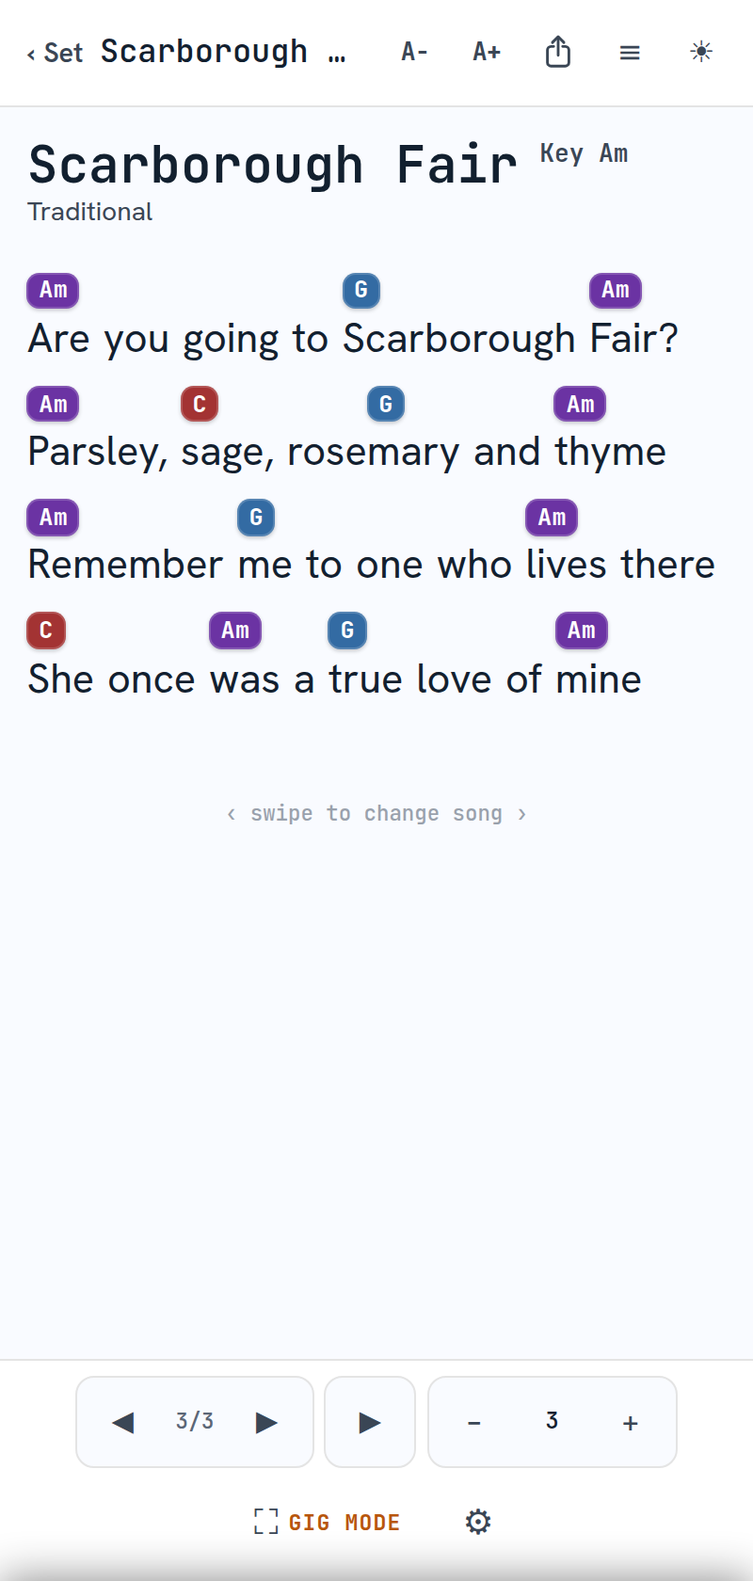
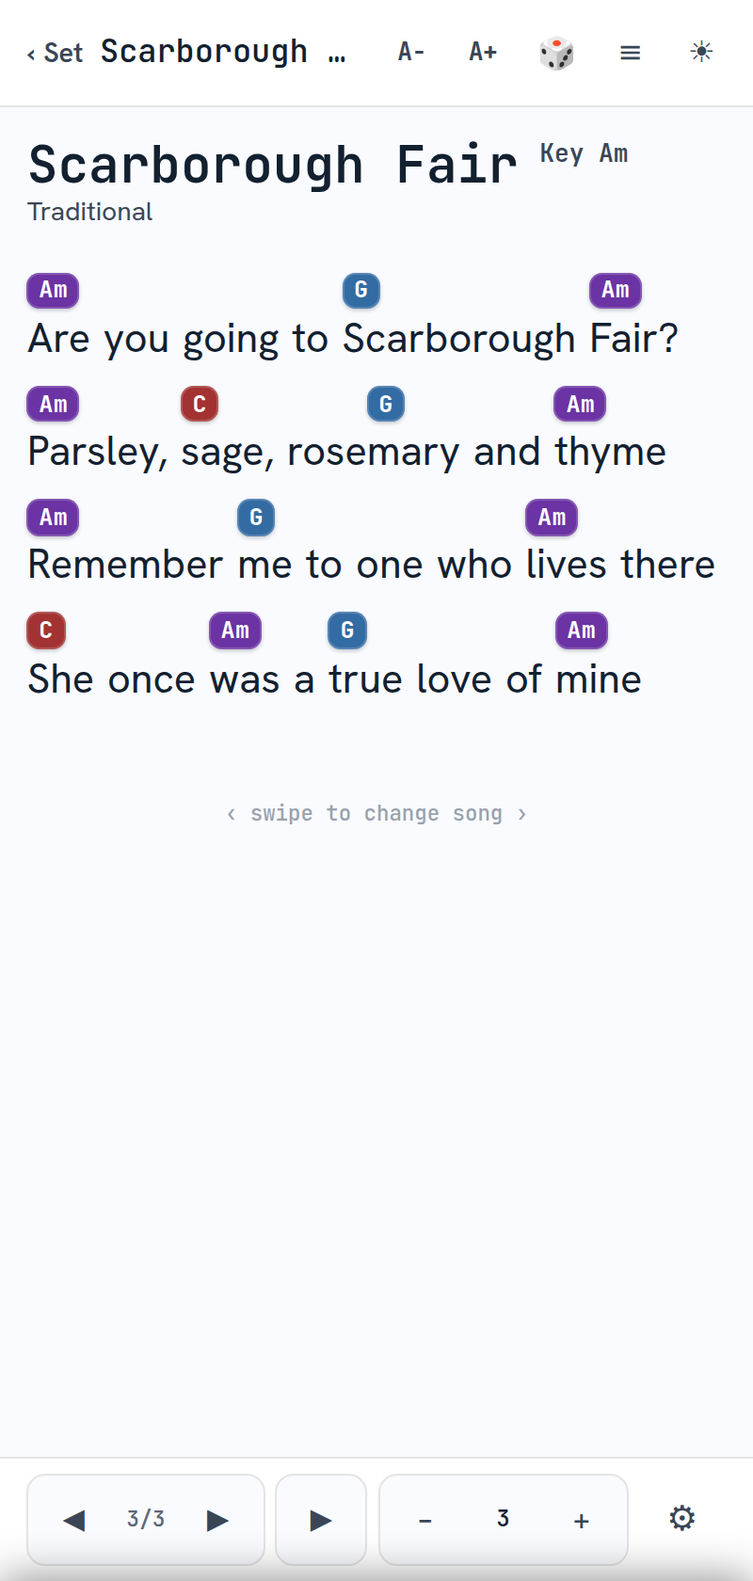
v2026.08.21.001 — simplify: no gig mode, wide awake, highlighted banter, smart header, chord chart
The owner's simplification notes, shipped as one release because they
interlock (gig mode's removal frees the dock and the wake-lock story; the
header rework moves the same buttons the earlier share/dice work touched).

GIG MODE REMOVED. The ⛶ fullscreen mode, its dock button, setGig/toggleGig
and both fullscreen listeners are gone; stage mode stays untouched. The
dock is simpler for it.

WIDE AWAKE. The screen-wake lock is now held app-wide: acquired at boot,
re-acquired whenever the app returns to the foreground, never released
between screens. A stand-mounted device must not sleep on any screen —
this also absorbs the wake-holding job gig mode used to do.

BANTER HIGHLIGHTED. .svbanter goes from small accent italic to a tinted
highlighter bar under the title — accent text on a 14% accent tint with a
3px accent border, weight 600. The stale light-theme orange override from
the amber era is retired; the coral accent clears AA as text in both
themes.

SMART HEADER. The 🎲 moved from the Songs list header into the app header
on every screen (hidden in stage mode, where a random song is a misfire
hazard — the stage toggle updates it too, since it doesn't route through
show()). Share is home-only; A−/A+ stay song-view-only. Header width
re-measured at 320/360/390 — no overflow.

CHORD CHART. A ⚙-sheet toggle (#chartBtn, persisted as state.chordChart —
the nashville-flag pattern) shows a wrapping strip of fingering diagrams
[…]

diff --git a/setlist69.html b/setlist69.html
@@ -360,7 +360,11 @@
   .svhead{display:flex;align-items:flex-start;gap:.7rem;margin-bottom:.4rem;}
   .svtitle{font-family:var(--display);font-weight:600;font-size:1.7rem;line-height:1.05;flex:1;cursor:pointer;}
   .svsub{color:var(--muted);font-size:.88rem;margin-top:.1rem;}
-  .svbanter{color:var(--accent);font-size:.84rem;font-style:italic;margin-top:.15rem;line-height:1.35;}
+  /* Banter: a highlighted stage-note under the title — meant to be read at a glance, so it gets
+     a highlighter-style tinted bar rather than fine print. */
+  .svbanter{display:inline-block;color:var(--accent);background:color-mix(in srgb,var(--accent) 14%,transparent);
+    border-left:3px solid var(--accent);border-radius:6px;padding:.3em .6em;margin-top:.35rem;
+    font-family:var(--ui);font-size:.92rem;font-weight:600;line-height:1.4;}
   .sheet{margin-top:1.1rem;font-size:var(--sheet-size,1.35rem);-webkit-user-select:text;user-select:text;
     line-height:1;
     /* Wide screens flow the sheet into two columns (iPad / phone-landscape); the 15em minimum is in
@@ -390,6 +394,13 @@
   .seg .l{display:block;white-space:pre;line-height:1.3;}
   .songkey{font-family:var(--mono);font-size:.82rem;font-weight:600;color:var(--muted);white-space:nowrap;
     align-self:center;}
+  /* Chord chart: every chord the song uses, with fingering, in first-appearance order.
+     Wraps — never scrolls sideways. Toggled from the ⚙ sheet (state.chordChart). */
+  .chord-chart{display:flex;flex-wrap:wrap;gap:.45rem;margin:.9rem 0 0;}
+  .cc-cell{border:1px solid var(--line);border-radius:8px;padding:.28rem .45rem .12rem;text-align:center;background:var(--panel);}
+  .cc-cell svg{width:60px;height:auto;}   /* slim the popover-sized diagrams so ~4 cells fit a phone row */
+  .cc-name{font-family:var(--mono);font-weight:700;font-size:.72rem;color:var(--ink);margin-bottom:.1rem;}
+  .cc-cell.noshape{padding:.5rem .6rem;}   /* name-only cell for chords with no known fingering */
   .wgspace{display:inline-block;width:.32em;}         /* breakable gap between word-groups */
   .chorus{border-left:3px solid var(--accent);padding-left:.7rem;margin-left:-.1rem;}
   .comment{color:var(--muted);font-style:italic;font-size:.7em;margin:.3rem 0 .5rem;font-family:var(--ui);}
@@ -429,17 +440,8 @@
   .dock .ctl button{padding:.55rem .65rem;font-size:.95rem;min-width:2.6rem;min-height:2.6rem;}
   .dock .iconbtn.dockgear{width:2.9rem;height:2.9rem;font-size:1.15rem;}
   .dock .iconbtn.dockgear.on{color:var(--accent);}
-  .dock-gig{display:flex;align-items:center;gap:.35rem;height:2.9rem;padding:0 .75rem;border-radius:10px;color:var(--muted);transition:.15s;}
-  .dock-gig:hover{color:var(--ink);background:var(--panel2);}
-  .dock-gig .gig-ico{font-size:1.15rem;line-height:1;}
-  .dock-gig .gig-lbl{font-family:var(--mono);font-weight:700;font-size:.72rem;letter-spacing:.05em;text-transform:uppercase;color:var(--accent);}  /* bright orange */
-  .dock-gig.on{color:var(--accent);}   /* symbol also lights up while gig mode is active */
-  /* light-mode refinements: --accent as *text* is only ~4:1 on the near-white bg (fine as a button
-     fill/icon, sub-AA as readable text), so use a darker orange for the banter + gig label; and
-     soften the chord popover's drop shadow for the lighter surface. */
-  [data-theme="light"] .svbanter,[data-theme="light"] .dock-gig .gig-lbl{color:#b8560c;}   /* ≥AA orange */
+  /* light-mode refinement: soften the chord popover's drop shadow for the lighter surface */
   [data-theme="light"] .chord-pop{box-shadow:0 8px 26px rgba(18,32,47,.16);}
-  .app.gig header{display:none;}   /* gig mode: reclaim the header strip for lyrics */
   .dockrow{display:flex;align-items:center;gap:.7rem;}
   .dockrow-label{font-size:.72rem;color:var(--muted);text-transform:uppercase;letter-spacing:.6px;font-weight:600;flex:1;}
   .dockrow .ctl button{padding:.5rem .7rem;min-width:2.6rem;min-height:2.6rem;font-size:.95rem;}
@@ -539,12 +541,13 @@
 <div class="app">
   <header>
     <button class="back" id="backBtn" style="display:none" aria-label="Back">‹ <span id="backLabel">Back</span></button>
-    <div class="brand" id="brand"><span class="dot"></span>SetList69<small>v2026.08.14.004</small></div>
+    <div class="brand" id="brand"><span class="dot"></span>SetList69<small>v2026.08.21.001</small></div>
     <div class="htitle" id="headerTitle" style="display:none"></div>
     <div class="spacer"></div>
     <button class="iconbtn" id="updateHdr" title="Update ready" aria-label="Update ready — refresh" hidden>⟳</button>
     <button class="iconbtn fontbtn" id="hdrFontDown" title="Smaller lyrics" aria-label="Make lyrics smaller" style="display:none">A−</button>
     <button class="iconbtn fontbtn" id="hdrFontUp" title="Bigger lyrics" aria-label="Make lyrics bigger" style="display:none">A+</button>
+    <button class="iconbtn" id="spinSong" title="Spin — random song" aria-label="Open a random song" style="font-size:1.05rem">🎲</button>
     <button class="iconbtn" id="shareApp" title="Share the app" aria-label="Share the app link"><svg class="shareicon" width="17" height="19" viewBox="0 0 16 20" fill="none" stroke="currentColor" stroke-width="1.5" stroke-linecap="round" stroke-linejoin="round" aria-hidden="true"><path d="M5.5 7H4a2 2 0 0 0-2 2v7a2 2 0 0 0 2 2h8a2 2 0 0 0 2-2V9a2 2 0 0 0-2-2h-1.5"/><path d="M8 12V2"/><path d="M4.8 4.8 8 1.6l3.2 3.2"/></svg></button>
     <button class="iconbtn" id="menuBtn" title="Tools &amp; backup" aria-label="Tools and backup">≡</button>
     <button class="iconbtn" id="themeBtn" title="Light / dark mode" aria-label="Toggle light or dark theme">☾</button>
@@ -566,7 +569,6 @@
       <div class="listhead" style="margin-top:1.6rem">
         <h2>Songs</h2><span class="count" id="allCount"></span>
         <div class="spacer"></div>
-        <button class="iconbtn" id="spinSong" title="Spin — random song" aria-label="Open a random song" style="font-size:1.15rem">🎲</button>
         <button class="iconbtn" id="newSongHome" title="New song" aria-label="New song" style="font-size:1.4rem;color:var(--accent)">+</button>
       </div>
       <div class="searchbar"><input type="search" id="allSearch" placeholder="Search songs…" autocomplete="off"></div>
@@ -595,6 +597,7 @@
           <span class="capo-badge" id="svCapo" style="display:none"></span>
         </div>
       </div>
+      <div class="chord-chart" id="chordChart" style="display:none" aria-label="Chord chart"></div>
       <div class="sheet" id="sheet"></div>
       <div class="swipehint" id="swipeHint">‹ swipe to change song ›</div>
       <div class="dock">
@@ -602,7 +605,6 @@
         <div class="ctl"><button id="prevSong" aria-label="Previous song">◀</button><span class="pos" id="setPos"></span><button id="nextSong" aria-label="Next song">▶</button></div>
         <div class="ctl"><button class="scrollbtn" id="scrollBtn" aria-label="Play or pause auto-scroll">▶</button></div>
         <div class="ctl"><button id="scrollDown" aria-label="Slower auto-scroll">−</button><span class="val" id="speedVal">3</span><button id="scrollUp" aria-label="Faster auto-scroll">+</button></div>
-        <button class="dock-gig" id="fsBtn" title="Fullscreen gig mode" aria-label="Toggle fullscreen gig mode"><span class="gig-ico">⛶</span><span class="gig-lbl">Gig mode</span></button>
         <button class="iconbtn dockgear" id="dockMore" title="Transpose, font &amp; more" aria-label="Song controls">⚙</button>
       </div>
     </section>
@@ -693,6 +695,8 @@
         <div class="ctl"><button id="flatBtn" title="Sharp/flat" aria-label="Toggle sharp or flat spelling">♯/♭</button></div></div>
       <div class="dockrow"><span class="dockrow-label">Nashville</span>
         <div class="ctl"><button id="nashBtn" title="Nashville numbers" aria-label="Toggle Nashville number notation">123</button></div></div>
+      <div class="dockrow"><span class="dockrow-label">Chord chart</span>
+        <div class="ctl"><button id="chartBtn" title="Chord fingering chart" aria-label="Toggle the chord fingering chart">⊞</button></div></div>
       <div class="dockrow"><span class="dockrow-label">Font size</span>
         <div class="ctl"><button id="fontDown" aria-label="Smaller font">A−</button><button id="fontFit" title="Fit to screen" aria-label="Fit song to screen" style="font-size:.7rem;letter-spacing:.3px">fit</button><button id="fontUp" aria-label="Larger font">A＋</button></div></div>
       <button class="ghostbtn" id="editSong" style="margin:0">✎ Edit song</button>
@@ -818,8 +822,8 @@ function seed(){
 /* ===== state & nav ===== */
 let state=seed();
 let screen="setlists";
-let curSetlist=null,curSongId=null,curIndex=-1,curSetTranspose=0,stageMode=false,capoVal=0,gigMode=false;
-let transpose=0,preferFlats=false,fontSize=1.35,scrollSpeed=3,nashville=false,nashKeyPc=-1;
+let curSetlist=null,curSongId=null,curIndex=-1,curSetTranspose=0,stageMode=false,capoVal=0;
+let transpose=0,preferFlats=false,fontSize=1.35,scrollSpeed=3,nashville=false,nashKeyPc=-1,chordChart=false;
 let scrolling=false,scrollRAF=null,scrollAccum=0,swipeHintTimer=null;
 let editingId=null,editorReturn="setlists",wakeLock=null,addingSongId=null,editingSetlistId=null;
 let allSearchQ="",pickerSearchQ="";
@@ -966,7 +970,25 @@ function retuneSheet(){
   const nash=nashville&&nashKeyPc>=0;
   for(const p of pills){const raw=p.dataset.ch||"",t=transposeChord(raw);p.style.background=keyColor(t);
     if(nash)p.innerHTML=nashPill(toNashville(raw,nashKeyPc));else p.textContent=t;}
+  renderChordChart();
   updateScrollProg();
+}
+/* Chord chart: unique chords in first-appearance order, as DISPLAYED (transposeChord folds in
+   transpose + capo, matching the pills). Raw chords are collected by renderSheet; rebuilt by
+   retuneSheet so transpose/♯♭ keep the fingerings honest. Nashville pills stay numbers — the
+   chart deliberately shows real names, it is a fingering reference. */
+let sheetRawChords=[];
+function renderChordChart(){
+  const el=document.getElementById("chordChart");
+  if(!chordChart||!sheetRawChords.length){el.style.display="none";el.innerHTML="";return;}
+  const seen=new Set(),cells=[];
+  for(const raw of sheetRawChords){
+    const shape=transposeChord(raw);
+    if(seen.has(shape))continue;seen.add(shape);
+    const svg=chordDiagramSVG(chordFrets(shape));
+    cells.push('<div class="cc-cell'+(svg?"":" noshape")+'"><div class="cc-name">'+esc(shape)+'</div>'+svg+'</div>');
+  }
+  el.innerHTML=cells.join("");el.style.display="";
 }
 function renderSheet(song){
   const r=parseSong(song),meta=r.meta;
@@ -993,6 +1015,9 @@ function renderSheet(song){
     sect+='<div class="ln '+(ln.chorus?"chorus":"")+'">'+renderLine(ln.segs)+'</div>';
   }
   closeSect();
+  sheetRawChords=[];
+  for(const ln of r.lines)if(ln.type==="segs")for(const sg of ln.segs)if(sg.chord)sheetRawChords.push(sg.chord);
+  renderChordChart();
   const sheet=document.getElementById("sheet");sheet.innerHTML=html;sheet.style.setProperty("--sheet-size",fontSize+"rem");
 }
 
@@ -1005,18 +1030,21 @@ function show(name){
   const back=document.getElementById("backBtn"),brand=document.getElementById("brand"),ht=document.getElementById("headerTitle");
   if(name==="setlists"){back.style.display="none";brand.style.display="";ht.style.display="none";}
   else{back.style.display="";brand.style.display="none";ht.style.display="";}
-  /* Header zoom pair. Unlike the ✎ these formerly replaced, they stay up in stage mode — enlarging
-     lyrics is a reading aid, not an editing control, and stage mode is when you most want it. */
+  /* Context-aware header (v: smart header). Zoom pair only where there are lyrics to zoom — and
+     it stays up in stage mode (reading aid, not an editing control). Share only on home: sharing
+     is rare, and the song view's width goes to the title and the controls used mid-song. The 🎲
+     rides on every screen except stage mode, where a random song is a misfire hazard. */
   const showFont=(name==="song")?"":"none";
   document.getElementById("hdrFontDown").style.display=showFont;
   document.getElementById("hdrFontUp").style.display=showFont;
+  document.getElementById("shareApp").style.display=(name==="setlists")?"":"none";
+  document.getElementById("spinSong").style.display=stageMode?"none":"";
   if(name==="setSongs"){ht.textContent=(state.setlists.find(s=>s.id===curSetlist)||{}).name||"";document.getElementById("backLabel").textContent="Setlists";
     document.getElementById("setSongsScreen").toggleAttribute("data-stage",stageMode);
     document.getElementById("stageBtn").textContent=stageMode?"✎ Edit":"▶ Stage";}
   if(name==="setlists"){stageMode=false;document.getElementById("setSongsScreen").removeAttribute("data-stage");maybeShowUpdatePill();}
   if(name==="song"){const s=state.songs.find(x=>x.id===curSongId);ht.textContent=s?s.title:"";document.getElementById("backLabel").textContent=curIndex>=0?"Set":"Home";}
-  if(name==="song"){if(!wakeLock)requestWake();}
-  else{stopScroll();releaseWake();if(gigMode)setGig(false);}
+  if(name!=="song")stopScroll();
 }
 function goBack(){
   if(screen==="song")show(curIndex>=0&&curSetlist?"setSongs":"setlists");
@@ -1142,7 +1170,9 @@ const updateScrollProg=(function(){
 async function requestWake(){try{if("wakeLock"in navigator)wakeLock=await navigator.wakeLock.request("screen");}catch(e){}}
 function releaseWake(){try{if(wakeLock){wakeLock.release();wakeLock=null;}}catch(e){}}
 document.addEventListener("visibilitychange",()=>{
-  if(document.visibilityState==="visible"){if(screen==="song")requestWake();}
+  /* Wide awake: the whole app holds the screen-wake lock while visible (owner: a stand-mounted
+     device must never sleep, whichever screen it sits on). The OS releases it on hide. */
+  if(document.visibilityState==="visible"){if(!wakeLock)requestWake();}
   else flushPersist();   // backgrounded — commit any pending save before the OS can freeze us
 });
 window.addEventListener("pagehide",flushPersist);
@@ -1151,23 +1181,6 @@ window.addEventListener("pagehide",flushPersist);
    Immersive performance view: request browser fullscreen where supported (Android/desktop/iPad —
    an installed iOS PWA is already fullscreen), hide the header strip for extra lyric space, and hold
    the wake lock. The existing swipe ‹ › still moves through the set. Exit via ⛶, Esc, or leaving. */
-function _fsEl(){return document.fullscreenElement||document.webkitFullscreenElement;}
-function _reqFs(){const el=document.documentElement,r=el.requestFullscreen||el.webkitRequestFullscreen;if(r)try{const p=r.call(el);if(p&&p.catch)p.catch(()=>{});}catch(e){}}
-function _exitFs(){const x=document.exitFullscreen||document.webkitExitFullscreen;if(x&&_fsEl())try{const p=x.call(document);if(p&&p.catch)p.catch(()=>{});}catch(e){}}
-function setGig(on){
-  gigMode=on;
-  document.querySelector(".app").classList.toggle("gig",on);
-  document.getElementById("fsBtn").classList.toggle("on",on);
-  if(on){
-    _reqFs();if(!wakeLock)requestWake();
-    if(curIndex>=0){const h=document.getElementById("swipeHint");if(h){h.style.display="";h.style.opacity=".6";clearTimeout(swipeHintTimer);swipeHintTimer=setTimeout(()=>{h.style.opacity="0";},2800);}}
-    toast("Gig mode — screen stays on; swipe ‹ › for songs");
-  }else{_exitFs();}
-  updateScrollProg();
-}
-function toggleGig(){setGig(!gigMode);}
-document.addEventListener("fullscreenchange",()=>{if(!_fsEl()&&gigMode)setGig(false);});
-document.addEventListener("webkitfullscreenchange",()=>{if(!_fsEl()&&gigMode)setGig(false);});
 
 /* ===== editor ===== */
 function openEditor(id,ret){editingId=id;editorReturn=ret||screen;
@@ -1324,8 +1337,10 @@ function restoreData(file){
       if(state.scrollSpeed!=null){scrollSpeed=state.scrollSpeed;document.getElementById("speedVal").textContent=scrollSpeed;}
       if(state.preferFlats!=null){preferFlats=state.preferFlats;document.getElementById("flatBtn").classList.toggle("on",preferFlats);}
       if(state.nashville!=null){nashville=state.nashville;document.getElementById("nashBtn").classList.toggle("on",nashville);}
+      if(state.chordChart!=null){chordChart=state.chordChart;document.getElementById("chartBtn").classList.toggle("on",chordChart);}
       playedSongs=new Set();persist();applyTheme();
-      renderSetlists();renderAllSongs();show("setlists");toast("Restored");
+      renderSetlists();renderAllSongs();show("setlists");
+  requestWake();   // wide awake from launch — see the visibilitychange notetoast("Restored");
     });
   }catch(e){toast("⚠ Not a valid backup file");}};r.readAsText(file);}
 
@@ -1591,7 +1606,7 @@ document.getElementById("backBtn").addEventListener("click",()=>{
 });
 document.getElementById("themeBtn").addEventListener("click",()=>{state.theme=state.theme==="light"?"dark":"light";applyTheme();persist();});
 document.getElementById("menuBtn").addEventListener("click",()=>{document.getElementById("toolsSheet").classList.add("show");});
-document.getElementById("svTitle").addEventListener("click",()=>{if(curSongId&&!gigMode&&!stageMode)openEditor(curSongId,"song");});
+document.getElementById("svTitle").addEventListener("click",()=>{if(curSongId&&!stageMode)openEditor(curSongId,"song");});
 
 document.getElementById("newSetlist").addEventListener("click",()=>{
   showPrompt("Name this setlist","New Set","",name=>{
@@ -1671,6 +1686,7 @@ document.getElementById("trUp").addEventListener("click",()=>{transpose++;docume
 document.getElementById("trDown").addEventListener("click",()=>{transpose--;document.getElementById("trVal").textContent=(transpose>0?"+":"")+transpose;const _s=state.songs.find(x=>x.id===curSongId);if(_s){_s.defaultTranspose=transpose+capoVal-curSetTranspose;persist();}retuneSheet();});
 document.getElementById("flatBtn").addEventListener("click",e=>{preferFlats=!preferFlats;state.preferFlats=preferFlats;persist();e.target.classList.toggle("on",preferFlats);retuneSheet();});
 document.getElementById("nashBtn").addEventListener("click",e=>{nashville=!nashville;state.nashville=nashville;persist();e.target.classList.toggle("on",nashville);if(nashville&&nashKeyPc<0)toast("Set a song key to see numbers");reRender();});
+document.getElementById("chartBtn").addEventListener("click",e=>{chordChart=!chordChart;state.chordChart=chordChart;persist();e.target.classList.toggle("on",chordChart);renderChordChart();updateScrollProg();});
 // tap a chord pill -> fingering diagram popover (diagram is for the currently displayed shape, so it respects transpose/capo)
 document.getElementById("sheet").addEventListener("click",e=>{const pill=e.target.closest(".chordpill");if(pill){e.stopPropagation();showChordPop(pill);}});
 document.addEventListener("click",e=>{if(!e.target.closest(".chordpill")&&!e.target.closest("#chordPop"))hideChordPop();});
@@ -1706,6 +1722,7 @@ document.getElementById("stageBtn").addEventListener("click",()=>{
   stageMode=!stageMode;
   document.getElementById("setSongsScreen").toggleAttribute("data-stage",stageMode);
   document.getElementById("stageBtn").textContent=stageMode?"✎ Edit":"▶ Stage";
+  document.getElementById("spinSong").style.display=stageMode?"none":"";
 });
 document.getElementById("resetPlayed").addEventListener("click",()=>{
   const sl=state.setlists.find(s=>s.id===curSetlist);if(!sl)return;
@@ -1730,7 +1747,6 @@ function openDockSheet(){
 }
 function closeDockSheet(){document.getElementById("dockSheet").classList.remove("show");}
 document.getElementById("dockMore").addEventListener("click",openDockSheet);
-document.getElementById("fsBtn").addEventListener("click",toggleGig);
 document.getElementById("closeDockSheet").addEventListener("click",closeDockSheet);
 document.getElementById("editSong").addEventListener("click",()=>{if(curSongId){closeDockSheet();openEditor(curSongId,"song");}});
 
@@ -2043,12 +2059,15 @@ async function boot(){
   if(state.scrollSpeed!=null)scrollSpeed=state.scrollSpeed;
   if(state.preferFlats!=null)preferFlats=state.preferFlats;
   if(state.nashville!=null)nashville=state.nashville;
+  if(state.chordChart!=null)chordChart=state.chordChart;
   if(!state.bantersMigrated){migrateBanter();persist();}
   if(!state.showcaseAdded){addShowcaseSong();persist();}
   applyTheme();document.getElementById("speedVal").textContent=scrollSpeed;
   document.getElementById("flatBtn").classList.toggle("on",preferFlats);
   document.getElementById("nashBtn").classList.toggle("on",nashville);
+  document.getElementById("chartBtn").classList.toggle("on",chordChart);
   renderSetlists();renderAllSongs();show("setlists");
+  requestWake();   // wide awake from launch — see the visibilitychange note
   if(!canPersist)setTimeout(()=>toast("Preview mode — use Back up to a file to keep songs"),700);
   setTimeout(maybeShowInstallBanner,600);
 }

diff --git a/sw.js b/sw.js
@@ -1,4 +1,4 @@
-const CACHE = 'setlist69-v2026.08.14.004';
+const CACHE = 'setlist69-v2026.08.21.001';
 const PRECACHE = [
   './',
   './index.html',

diff --git a/CLAUDE.md b/CLAUDE.md
@@ -252,6 +252,16 @@ v2026.08.14.004  Standard share icon: the ⇪ glyph (.003 shipped it; it is lite
                  (`.shareicon`, stroke:currentColor so it follows `.iconbtn` color states,
                  aria-hidden with labels kept on the buttons) — on both `#shareApp` and the
                  setlist `#shareSetBtn`. No Unicode codepoint exists for the standard glyph.
+v2026.08.21.001  Simplify: gig mode REMOVED (⛶ dock button, setGig/toggleGig, fullscreen plumbing;
+                 stage mode stays); wake lock now held APP-WIDE while visible (boot +
+                 visibilitychange — never released between screens); banter restyled as a tinted
+                 highlight bar under the title; smart header (🎲 in the header on all screens,
+                 hidden in stage mode — the stageBtn handler also flips it, since it doesn't route
+                 through show(); share home-only; A−/A+ song-view-only); chord chart strip —
+                 `#chartBtn` in ⚙ toggles `state.chordChart` (nashville-flag pattern), built by
+                 `renderChordChart()` from raw chords collected in `renderSheet`, rebuilt by
+                 `retuneSheet`, unique displayed chords in first-appearance order, wraps (never
+                 sideways-scrolls), name-only cells for unknown fingerings.
 ```
 
 A GitHub Actions workflow (`.github/workflows/check.yml`) enforces the version discipline on every push: it syntax-checks the extracted inline script and `sw.js`, **fails if the `<small>` brand version ≠ `sw.js` CACHE version**, and fails on duplicate element ids in the markup.
@@ -497,7 +507,7 @@ Globals: `transpose` (semitones, 0 on song open), `preferFlats` (bool), `fontSiz
 
 **Font:** `A−` / `A+` (0.7–2.4 rem, 0.1 steps) via `nudgeFont(step)` — the one implementation behind **both** the header pair (`#hdrFontDown`/`#hdrFontUp`, v2026.08.05.002) and the ⚙ sheet pair (`#fontDown`/`#fontUp`). Note the default 1.35 isn't on the 0.1 grid, so the first tap snaps to it (up → 1.5, down → 1.3); that's long-standing and intentional to keep the scale tidy afterwards. **`fit`** button scales font so the full song fits the viewport — two-pass (`requestAnimationFrame` after first `reRender()`) to correct for re-wrapping at smaller sizes.
 
-**Header zoom (v2026.08.05.002):** `A−`/`A+` sit beside `≡ ☾` in the song view. They took the slot of the old `✎` header button, which was redundant — `#svTitle`'s click handler opens the editor with the same `openEditor(curSongId,"song")` call. Visibility is set in `show()` on `name==="song"` alone, so unlike the `✎` **they stay up in stage mode** (enlarging lyrics is a reading aid). Gig mode hides the header entirely; the ⚙ sheet covers that case. The header has no spare width — adding these required dropping `header` `gap` to .35rem and padding to .7rem, and `.iconbtn.fontbtn` needs `white-space:nowrap` because the flex row shrinks the buttons below their glyph width.
+**Header zoom (v2026.08.05.002):** `A−`/`A+` sit beside `≡ ☾` in the song view. They took the slot of the old `✎` header button, which was redundant — `#svTitle`'s click handler opens the editor with the same `openEditor(curSongId,"song")` call. Visibility is set in `show()` on `name==="song"` alone, so unlike the `✎` **they stay up in stage mode** (enlarging lyrics is a reading aid). The header has no spare width — adding these required dropping `header` `gap` to .35rem and padding to .7rem, and `.iconbtn.fontbtn` needs `white-space:nowrap` because the flex row shrinks the buttons below their glyph width.
 
 **Auto-scroll:** `startScroll()` / `stopScroll()` use `requestAnimationFrame` with fractional pixel accumulator. Stops at bottom with haptic + amber flash. Speed adjustable live.
 
@@ -509,7 +519,7 @@ Globals: `transpose` (semitones, 0 on song open), `preferFlats` (bool), `fontSiz
 
 **Gesture debug overlay (v2026.08.13.002):** 5 quick taps on the version tag (`.brand small`) toggle `#gestureDbg`, a fixed, `pointer-events:none` readout of the last ~6 touch events seen at document level (type, target, dx/dy) plus screen name and rendered column count. Session-only, never persisted. Exists so a dead gesture on a real device can be reported with the actual event stream — ask the owner to 5-tap, swipe once, and read back the overlay.
 
-**Wake lock:** `requestWake()` on entering song view. `releaseWake()` only on leaving the app entirely — **not** between songs, so the screen stays on through the whole set. Re-acquired on `visibilitychange`.
+**Wake lock (v2026.08.21.001 — app-wide):** acquired at `boot()` and re-acquired on `visibilitychange→visible` on ANY screen; never released between screens (the OS drops it on hide). The owner runs the app on a stand all night — it must not sleep anywhere.
 
 **Dock layout (v2026.07.04.004):** the dock keeps only the between-songs-frequent controls with ≥2.6rem targets — prev/pos/next, play/pause (`scrollBtn`), speed −/+, and a `⚙` (`dockMore`) button. Transpose, `♯/♭`, font (`A−`/`fit`/`A+`) and `✎ Edit` live in `#dockSheet`, a `.modal.bottom` opened by `⚙`. **The controls kept their original ids**, so all handlers, boot wiring, and `openCurrent`'s set-nav hide still work after the DOM move — don't rename them. `openDockSheet()` hides `#editSong` when `stageMode` is on.
 
@@ -566,9 +576,9 @@ Music core:    transposeNote  transposeChord  looksChord  isChordLine
                pitchClass  keyColor  cleanEmbeddedChords  toNashville  nashPill
 Chord diagrams: chordFamily  chordFrets  chordDiagramSVG  showChordPop  hideChordPop
 Parse/render:  esc  parseSong  inlineToSegs  pairToSegs  renderLine  renderSheet  retuneSheet
+               renderChordChart
 Router/nav:    show  goBack
 List renders:  renderSetlists  renderSetSongs  renderAllSongs  renderPicker  renderAdder
-Gig mode:      setGig  toggleGig  (⛶ dock button — fullscreen + hide header + wake lock)
 Song view:     openSongInSet  openSongStandalone  openCurrent  reRender  libraryIds
                nextSong  prevSong  startScroll  stopScroll  updateScrollProg
                requestWake  releaseWake  openDockSheet  closeDockSheet  nudgeFont

diff --git a/README.md b/README.md
@@ -27,7 +27,7 @@
 <br>
 
 [![CI](https://github.com/cdburgess75/SetList69/actions/workflows/check.yml/badge.svg)](https://github.com/cdburgess75/SetList69/actions/workflows/check.yml)
-[![Version](https://img.shields.io/badge/version-2026.08.14.004-informational?style=flat-square)](#versioning)
+[![Version](https://img.shields.io/badge/version-2026.08.21.001-informational?style=flat-square)](#versioning)
 [![PWA](https://img.shields.io/badge/PWA-installable-5A0FC8?style=flat-square)](#save-it-to-your-phone)
 [![Offline](https://img.shields.io/badge/offline-first-2ea043?style=flat-square)](#features)
 [![Runtime deps](https://img.shields.io/badge/runtime_dependencies-0-f5a623?style=flat-square)](#tech-stack)
@@ -52,8 +52,8 @@ The whole thing is a single `setlist69.html` file. No framework, no build step, 
 **On stage**
 
 - **Auto-scroll that keeps your hands free** — starts at a tap, adjustable speed mid-song, with a progress bar and a haptic nudge when you reach the last line.
-- **Never goes dark** — a wake lock is held across the *entire set*, not re-acquired per song, so the screen won't sleep between verses.
-- **Gig mode** — one tap for true fullscreen: no browser chrome, no header, just lyrics.
+- **Never goes dark** — the app holds a screen-wake lock the whole time it's open, so the screen won't sleep between verses, songs, or sets.
+- **Chord chart** — flip on a strip of fingering diagrams for every chord the song uses, straight from the ⚙ sheet.
 - **Stage mode** — hides every editing control so nothing destructive is one fat-fingered tap away, and leaving a song mid-performance deliberately takes two taps.
 - **Two columns on wide screens** — on a tablet or a phone held sideways, verses flow into side-by-side blocks (each verse kept whole), so most songs fit with little or no scrolling.
 - **Swipe between songs** — in set order during a gig, or straight through your library when browsing, position (`3/12`) always visible.

diff --git a/docs/USER-GUIDE.md b/docs/USER-GUIDE.md
@@ -117,7 +117,7 @@ Open a set and tap a song (or tap the big **▶** to start from the first). This
 
 - A thin **progress bar** on top of the dock shows how much song is left.
 - **Swipe left / right** on the lyrics to change songs.
-- The screen **won't sleep** while you're in a song.
+- The screen **won't sleep** while the app is open — any screen, all night.
 
 ### Stage mode
 
